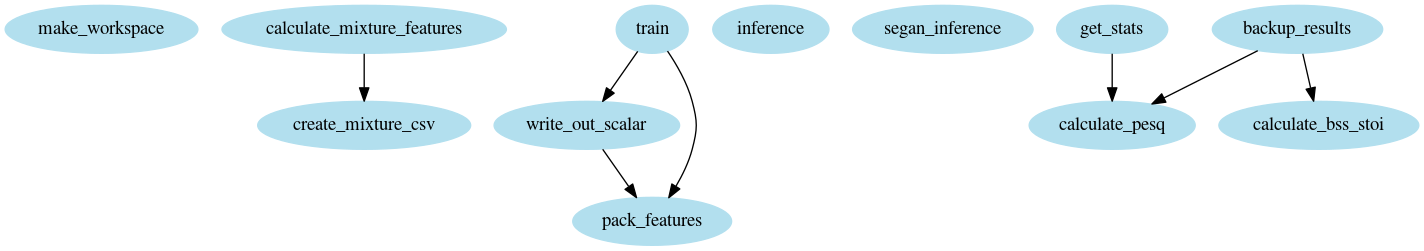
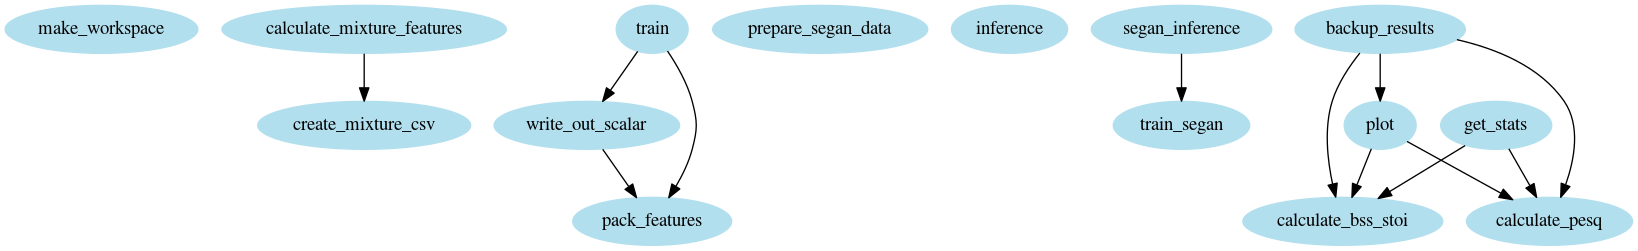
build: Push latest changes

diff --git a/dodo.py b/dodo.py
@@ -49,7 +49,9 @@ SEGAN_CONFIG = {
     "path":   pathlib.Path(get_var('segan_path', '/home/chris/repos/segan_pytorch')),
     # HACK: Hardcode path for python EXE needed for SEGAN
     # _should_ use conda run instead, but breaks for some reason, not sure why
-    'python': "/home/chris/anaconda3/envs/segan_pytorch/bin/python"
+    'python': "/home/chris/anaconda3/envs/segan_pytorch/bin/python",
+    'num_samples': get_var('segan_samples',40),
+    'batch_size': get_var('segan_batch_size',25)
 }
 
 # Cannot use "+" in folder due to PESQ limitations
@@ -306,7 +308,7 @@ def task_write_out_scalar():
         'clean': True,
     }
 
-@create_after(executed='calculate_mixture_features')
+@create_after(executed='calculate_mixture_features',target_regex="*.wav")
 def task_prepare_segan_data():
     return {
         'file_dep' : list(pathlib.Path(MIXED_WAVS_DIR).glob("*.wav")),
@@ -334,7 +336,7 @@ def task_train():
     }
 
 
-@create_after(executed='prepare_segan_data')
+@create_after(executed='prepare_segan_data',target_regex=".*.ckpt .*.opts *checkpoints")
 def task_train_segan():
     ''' Train SEGAN+ on the same testset, keeping temp files in workspace '''
 
@@ -343,8 +345,10 @@ def task_train_segan():
     else:
         save_freq = 500
     return {
-        'file_dep': [SEGAN_TRAIN_FOLDER], # TODO depend on SEGAN code
-        'targets': [SEGAN_CKPT_DIR, SEGAN_TMP_FOLDER],
+        'file_dep': list(SEGAN_TRAIN_FOLDER.rglob("*.wav")), # TODO depend on SEGAN code
+        'targets': [SEGAN_CKPT_DIR/'EOE_D-checkpoints', 
+                    SEGAN_CKPT_DIR/'EOE_G-checkpoints',
+                    SEGAN_CKPT_DIR/'train.opts'], # TODO add .ckpt file itself
         'title': title_with_actions,
         'actions': [Interactive(
             f"{SEGAN_CONFIG['python']} -u {SEGAN_CONFIG['path']/'train.py'} "
@@ -353,10 +357,13 @@ def task_train_segan():
             f"--clean_trainset {DATA['train']['speech']} "
             f"--noisy_trainset {SEGAN_TRAIN_FOLDER} "
             f"--cache_dir {SEGAN_TMP_FOLDER} "
-            f"--no_train_gen --batch_size 300 --no_bias "
-            f"--max_samples=20 " # Limit number of samples to decrease RAM
+            f"--no_train_gen "
+            f"--batch_size {SEGAN_CONFIG['batch_size']} "
+            f"--no_bias "
+            f"--max_samples={SEGAN_CONFIG['num_samples']} " # Limit number of samples to decrease RAM
             f"--slice_workers=4" # Use multiple workers
         )],
+        'uptodate': [config_changed(SEGAN_CONFIG)],
         'clean': [delete_segan_train]
     }
 
@@ -381,19 +388,23 @@ def task_inference():
 def task_segan_inference():
     mixed = list(MIXED_WAVS_DIR.rglob('*.wav'))
     return {
-        # TODO Add model checkpoint and configuration to build
-        'file_dep': mixed + get_source_files(SEGAN_CONFIG['path']) + [SEGAN_CKPT_DIR],
+        # TODO Use latest checkpoint
+        'file_dep': mixed + get_source_files(SEGAN_CONFIG['path']) + [
+            SEGAN_CKPT_DIR/'weights_EOE_G-Generator-101.ckpt',
+            SEGAN_CKPT_DIR/'train.opts'
+            ],
         'targets': [
-            SEGAN_OUTPUT_FOLDER
+            SEGAN_OUTPUT_FOLDER,
         ],
         'actions': [Interactive(
             f"{SEGAN_CONFIG['python']} -u {SEGAN_CONFIG['path']/'clean.py'} "
-            f"--g_pretrained_ckpt {SEGAN_CKPT_DIR/'segan+_generator.ckpt'} "
+            f"--g_pretrained_ckpt {SEGAN_CKPT_DIR/'weights_EOE_G-Generator-101.ckpt'} "
             f"--test_files {CONFIG['workspace']/ 'mixed_audios/test' / str(CONFIG['test_snr'])}db "
             f"--cfg_file {SEGAN_CKPT_DIR/'train.opts'} "
             f"--synthesis_path {SEGAN_OUTPUT_FOLDER} " #TODO move into workspace
             f"--soundfile" # Use libsoundfile backend to save
-        )]
+        )],
+        'uptodate': [config_changed(SEGAN_CONFIG)],
     }
 
 
